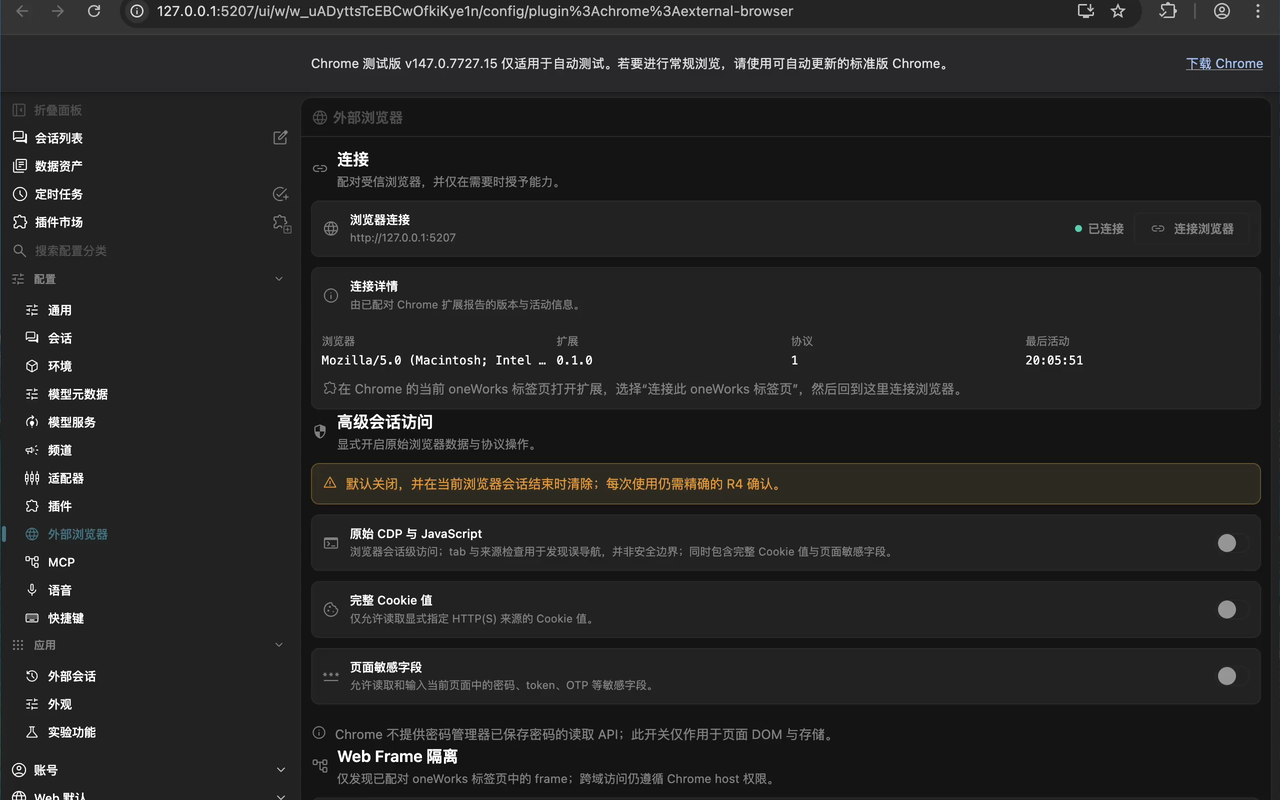
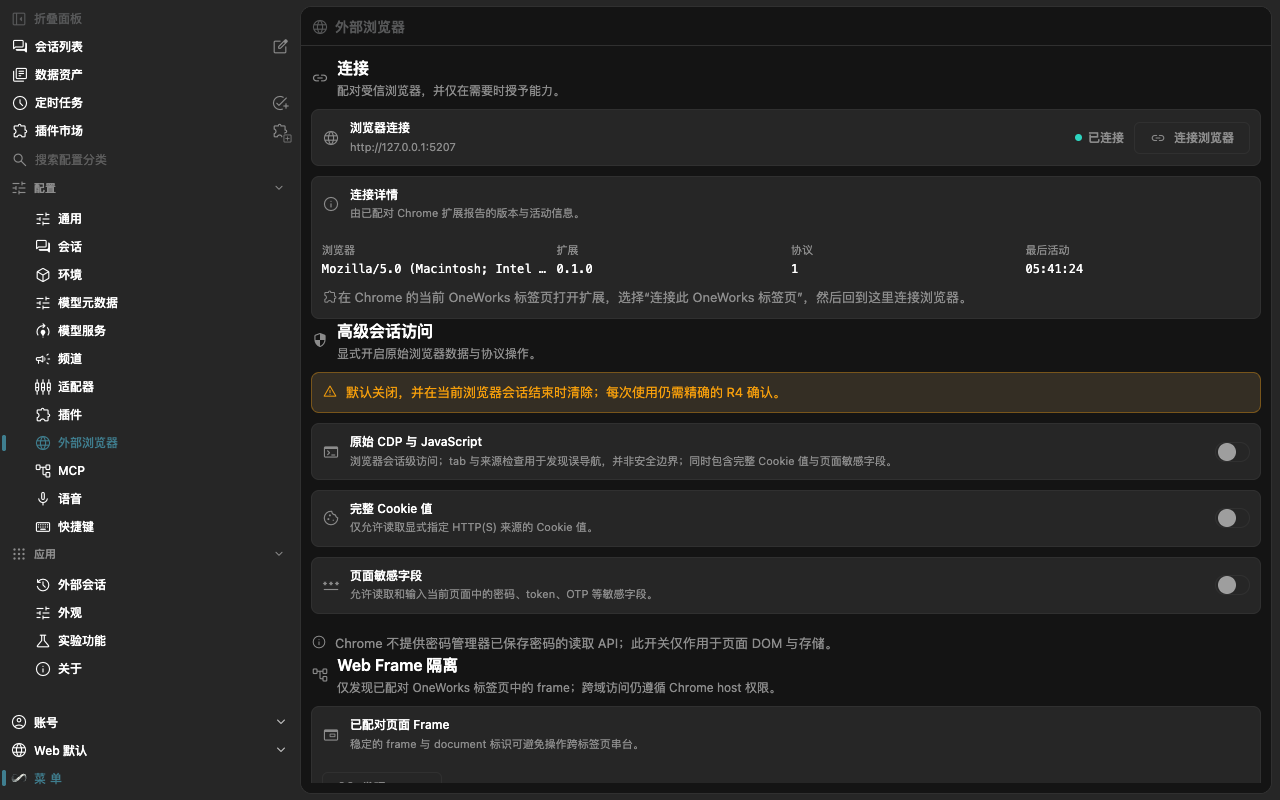
feat(browser): rename Chrome extension to OneWorks (#144)

diff --git a/packages/plugins/chrome-driver/__tests__/extension-release.spec.ts b/packages/plugins/chrome-driver/__tests__/extension-release.spec.ts
@@ -15,6 +15,8 @@ const release = require('../bin/extension-release.cjs') as {
   archiveFileName: (flavor: 'base' | 'privileged', version?: string) => string
   chromeVersionFor: (version: string) => string
   extensionIdForKey: (key: string) => string
+  extensionNames: { base: string; privileged: string }
+  publicExtensionName: string
   stableExtensionId: string
 }
 const packager = require('../bin/package-extension.cjs') as {
@@ -70,12 +72,17 @@ describe('external browser extension release packaging', () => {
     for (const fileName of ['manifest.json', 'manifest.privileged.json', 'manifest.e2e.json']) {
       const manifest = JSON.parse(readFileSync(join(pluginRoot, 'extension', fileName), 'utf8'))
       expect(release.extensionIdForKey(manifest.key)).toBe(CHROME_EXTENSION_ID)
+      expect(manifest.action.default_title).toBe(release.publicExtensionName)
     }
+    expect(readFileSync(join(pluginRoot, 'extension', 'popup.html'), 'utf8')).toMatch(
+      /<title>OneWorks<\/title>[\s\S]*<h1>OneWorks<\/h1>/u
+    )
   })
 
   it('maps package prerelease versions to monotonic Chrome versions', () => {
     expect(release.chromeVersionFor('0.1.0-alpha.5')).toBe('0.1.0.10005')
     expect(release.chromeVersionFor('0.1.0-beta.5')).toBe('0.1.0.20005')
+    expect(release.chromeVersionFor('0.1.0-beta.6')).toBe('0.1.0.20006')
     expect(release.chromeVersionFor('0.1.0-rc.5')).toBe('0.1.0.30005')
     expect(release.chromeVersionFor('0.1.0')).toBe('0.1.0.65535')
     expect(release.chromeVersionFor('0.1.1-alpha.0')).toBe('0.1.1.10000')
@@ -110,12 +117,12 @@ describe('external browser extension release packaging', () => {
     }
     expect(base.sha256).toBe(secondBase.sha256)
     expect(privileged.sha256).toBe(secondPrivileged.sha256)
-    expect(release.archiveFileName('privileged', '1.2.3')).toBe('oneworks-external-browser-v1.2.3.zip')
-    expect(release.archiveFileName('base', '1.2.3')).toBe('oneworks-external-browser-v1.2.3-minimal.zip')
-    expect(base).toMatchObject({ flavor: 'base', manifest_version: '0.1.0.20005' })
+    expect(release.archiveFileName('privileged', '1.2.3')).toBe('oneworks-v1.2.3.zip')
+    expect(release.archiveFileName('base', '1.2.3')).toBe('oneworks-v1.2.3-minimal.zip')
+    expect(base).toMatchObject({ flavor: 'base', manifest_version: '0.1.0.20006' })
     expect(release.stableExtensionId).toBe(CHROME_EXTENSION_ID)
     expect(base).toMatchObject({ extension_id: CHROME_EXTENSION_ID })
-    expect(privileged).toMatchObject({ flavor: 'privileged', manifest_version: '0.1.0.20005' })
+    expect(privileged).toMatchObject({ flavor: 'privileged', manifest_version: '0.1.0.20006' })
 
     const baseEntries = unzipSync(new Uint8Array(readFileSync(basePath)))
     const baseManifest = JSON.parse(Buffer.from(baseEntries['manifest.json']).toString('utf8'))
@@ -128,15 +135,15 @@ describe('external browser extension release packaging', () => {
       'icons/icon-128.png'
     ]))
     expect(baseManifest).toMatchObject({
-      name: 'oneWorks External Browser (Minimal)',
-      version: '0.1.0.20005',
-      version_name: '0.1.0-beta.5'
+      name: release.extensionNames.base,
+      version: '0.1.0.20006',
+      version_name: '0.1.0-beta.6'
     })
     expect(baseManifest.permissions).not.toContain('debugger')
 
     const privilegedEntries = unzipSync(new Uint8Array(readFileSync(privilegedPath)))
     const privilegedManifest = JSON.parse(Buffer.from(privilegedEntries['manifest.json']).toString('utf8'))
-    expect(privilegedManifest.name).toBe('oneWorks External Browser')
+    expect(privilegedManifest.name).toBe(release.extensionNames.privileged)
     expect(privilegedManifest.permissions).toEqual(expect.arrayContaining(['debugger', 'proxy']))
   })
 
@@ -151,7 +158,7 @@ describe('external browser extension release packaging', () => {
 
     const manifest = JSON.parse(readFileSync(join(materializedPath, 'manifest.json'), 'utf8'))
     expect(manifest).toMatchObject({
-      name: 'oneWorks External Browser',
+      name: release.extensionNames.privileged,
       permissions: expect.arrayContaining(['debugger', 'proxy'])
     })
     expect(validator.validateExtensionArchive({ archivePath, flavor: 'privileged' }))

diff --git a/packages/plugins/chrome-driver/server/src/bridge.ts b/packages/plugins/chrome-driver/server/src/bridge.ts
@@ -519,7 +519,7 @@ const trustedOneWorksOrigin = (value: string) => {
   if (url.protocol === 'http:' && ['127.0.0.1', 'localhost', '[::1]'].includes(url.hostname)) return origin
   throw bridgeError({
     code: 'UNTRUSTED_ONEWORKS_ORIGIN',
-    message: 'Chrome pairing is limited to loopback oneWorks or ONEWORKS_CHROME_TRUSTED_ORIGINS.',
+    message: 'Chrome pairing is limited to loopback OneWorks or ONEWORKS_CHROME_TRUSTED_ORIGINS.',
     recoverable: true
   })
 }
@@ -605,9 +605,9 @@ export class ChromeExtensionBridge {
     if (extensionId !== CHROME_EXTENSION_ID || pairingNonce.length < 16) {
       throw bridgeError({
         code: 'EXTENSION_IDENTITY_MISMATCH',
-        message: 'The installed extension identity or page challenge did not match oneWorks External Browser.',
+        message: 'The installed extension identity or page challenge did not match OneWorks.',
         recoverable: true,
-        user_action: 'Install the oneWorks-provided extension build and reconnect from its popup.'
+        user_action: 'Install the OneWorks-provided extension build and reconnect from its popup.'
       })
     }
     const ticket = randomBytes(24).toString('base64url')
@@ -728,7 +728,7 @@ export class ChromeExtensionBridge {
         code: 'DISCONNECTED',
         message: 'External Browser is not connected.',
         recoverable: true,
-        user_action: 'Open External Browser in oneWorks Settings or open the extension and reconnect.'
+        user_action: 'Open External Browser in OneWorks Settings or open the extension and reconnect.'
       })
     }
     const connection = this.#activeConnection
@@ -768,7 +768,7 @@ export class ChromeExtensionBridge {
         confirmation_id: confirmation.confirmation_id,
         message: 'This Chrome operation requires an explicit user confirmation.',
         recoverable: true,
-        user_action: 'Approve the pending action in External Browser under oneWorks Settings, then retry.'
+        user_action: 'Approve the pending action in External Browser under OneWorks Settings, then retry.'
       })
     }
     this.#grants.delete(digest)
@@ -1024,7 +1024,7 @@ export class ChromeExtensionBridge {
           protocolVersion || 'unknown'
         }.`,
         recoverable: true,
-        user_action: 'Update the oneWorks Chrome extension and reconnect.'
+        user_action: 'Update the OneWorks Chrome extension and reconnect.'
       })
     }
     const extensionId = text(body.extension_id)
@@ -1060,9 +1060,9 @@ export class ChromeExtensionBridge {
       ) {
         throw bridgeError({
           code: 'PAIRING_REQUIRED',
-          message: 'A fresh oneWorks pairing offer is required.',
+          message: 'A fresh OneWorks pairing offer is required.',
           recoverable: true,
-          user_action: 'Click Connect browser in External Browser under oneWorks Settings.'
+          user_action: 'Click Connect browser in External Browser under OneWorks Settings.'
         })
       }
       this.#pairingTickets.delete(ticket)

diff --git a/packages/plugins/chrome-driver/client/src/view.tsx b/packages/plugins/chrome-driver/client/src/view.tsx
@@ -92,7 +92,7 @@ export function ChromeDriverView({ ctx, react, view }) {
     run('frames', async () => {
       const tabId = status?.connection?.oneworks_tab_id
       if (!Number.isInteger(tabId)) {
-        throw new TypeError(t('Reconnect from the oneWorks Web tab first.', '请先从 oneWorks Web 标签页重新连接。'))
+        throw new TypeError(t('Reconnect from the OneWorks Web tab first.', '请先从 OneWorks Web 标签页重新连接。'))
       }
       const result = await ctx.commands.execute('list-web-frames', { tab_id: tabId })
       setFrames(result?.result ?? result ?? [])
@@ -117,8 +117,8 @@ export function ChromeDriverView({ ctx, react, view }) {
   const recover = () => failure?.code === 'VERSION_MISMATCH' ? connect() : failure?.retry?.() ?? refresh()
   const failureGuidance = failure?.code === 'VERSION_MISMATCH'
     ? t(
-      'Update the oneWorks browser extension, then reconnect this tab.',
-      '请更新 oneWorks 浏览器扩展，然后重新连接当前标签页。'
+      'Update the OneWorks browser extension, then reconnect this tab.',
+      '请更新 OneWorks 浏览器扩展，然后重新连接当前标签页。'
     )
     : failure?.code === 'MISSING_PERMISSION'
     ? t(
@@ -223,8 +223,8 @@ export function ChromeDriverView({ ctx, react, view }) {
           <Icon name='extension' />
           <span>
             {t(
-              'In Chrome, open the extension on this oneWorks tab, choose “Connect this oneWorks tab”, then return here and connect the browser.',
-              '在 Chrome 的当前 oneWorks 标签页打开扩展，选择“连接此 oneWorks 标签页”，然后回到这里连接浏览器。'
+              'In Chrome, open the extension on this OneWorks tab, choose “Connect this OneWorks tab”, then return here and connect the browser.',
+              '在 Chrome 的当前 OneWorks 标签页打开扩展，选择“连接此 OneWorks 标签页”，然后回到这里连接浏览器。'
             )}
           </span>
         </div>
@@ -316,8 +316,8 @@ export function ChromeDriverView({ ctx, react, view }) {
       icon='account_tree'
       title={t('Web frame isolation', 'Web Frame 隔离')}
       description={t(
-        'Discover only frames in the paired oneWorks tab. Cross-origin access still follows Chrome host permissions.',
-        '仅发现已配对 oneWorks 标签页中的 frame；跨域访问仍遵循 Chrome host 权限。'
+        'Discover only frames in the paired OneWorks tab. Cross-origin access still follows Chrome host permissions.',
+        '仅发现已配对 OneWorks 标签页中的 frame；跨域访问仍遵循 Chrome host 权限。'
       )}
     >
       <SettingsRow

diff --git a/packages/plugins/chrome-driver/extension/background.js b/packages/plugins/chrome-driver/extension/background.js
@@ -92,7 +92,7 @@ const handlers = {
 
 async function post(path, body, token, signal) {
   if (connection?.bridge_url == null && body.bridge_url == null) {
-    throw error('PAIRING_REQUIRED', 'oneWorks pairing is required.')
+    throw error('PAIRING_REQUIRED', 'OneWorks pairing is required.')
   }
   const bridgeUrl = body.bridge_url ?? connection.bridge_url
   const response = await fetch(new URL(path, bridgeUrl), {
@@ -120,7 +120,7 @@ async function connect(input = {}) {
     const bridgeUrl = input.bridge_url ?? saved.bridge_url
     const trustedOrigin = input.trusted_origin ?? saved.trusted_origin
     if (bridgeUrl == null || trustedOrigin == null) {
-      throw error('PAIRING_REQUIRED', 'Open External Browser in oneWorks Settings and create a pairing offer.')
+      throw error('PAIRING_REQUIRED', 'Open External Browser in OneWorks Settings and create a pairing offer.')
     }
     const capabilities = await discoverCapabilities()
     const previousConnection = connection
@@ -337,11 +337,11 @@ chrome.runtime.onMessage.addListener((message, sender, sendResponse) => {
   const respond = async () => {
     if (message?.type === 'oneworks:pairing-offer') {
       if (sender.tab?.url == null) {
-        throw error('ORIGIN_MISMATCH', 'Pairing offers must come from a visible oneWorks tab.')
+        throw error('ORIGIN_MISMATCH', 'Pairing offers must come from a visible OneWorks tab.')
       }
       const senderOrigin = new URL(sender.tab.url).origin
       if (senderOrigin !== message.offer?.trusted_origin) {
-        throw error('ORIGIN_MISMATCH', 'The pairing offer did not match the oneWorks tab origin.')
+        throw error('ORIGIN_MISMATCH', 'The pairing offer did not match the OneWorks tab origin.')
       }
       if (message.offer?.ticket != null && message.offer.ticket === lastPairingTicket && connection != null) {
         return publicStatus()
@@ -365,7 +365,7 @@ chrome.runtime.onMessage.addListener((message, sender, sendResponse) => {
     if (message?.type === 'oneworks:inject-bridge') {
       const [tab] = await chrome.tabs.query({ active: true, currentWindow: true })
       if (tab?.id == null || tab.url == null || !/^https?:/.test(tab.url)) {
-        throw error('RESTRICTED_PAGE', 'Open the oneWorks Web page in the active tab first.')
+        throw error('RESTRICTED_PAGE', 'Open the OneWorks Web page in the active tab first.')
       }
       const origin = new URL(tab.url).origin
       await chrome.permissions.request({ permissions: ['scripting'], origins: [`${origin}/*`] })
@@ -397,7 +397,7 @@ chrome.runtime.onMessage.addListener((message, sender, sendResponse) => {
       await chrome.storage.local.remove(storageKey)
       return publicStatus()
     }
-    throw error('UNKNOWN_MESSAGE', 'Unknown oneWorks Chrome extension message.')
+    throw error('UNKNOWN_MESSAGE', 'Unknown OneWorks Chrome extension message.')
   }
   void respond().then(
     result => sendResponse({ ok: true, result }),

diff --git a/packages/plugins/chrome-driver/extension/popup.html b/packages/plugins/chrome-driver/extension/popup.html
@@ -3,29 +3,29 @@
   <head>
     <meta charset="utf-8">
     <meta name="viewport" content="width=device-width,initial-scale=1">
-    <title>oneWorks External Browser</title>
+    <title>OneWorks</title>
     <link rel="stylesheet" href="popup.css">
   </head>
   <body>
     <main>
       <header>
-        <span class="mark">oW</span><div>
-          <h1>External Browser</h1>
+        <span class="mark">OW</span><div>
+          <h1>OneWorks</h1>
           <p id="state">Checking connection…</p>
         </div>
       </header>
       <section id="notice" hidden></section>
-      <button id="connect" class="primary">Connect this oneWorks tab</button>
+      <button id="connect" class="primary">Connect this OneWorks tab</button>
       <h2>Optional capabilities</h2>
       <p class="hint">
         Grant only what this session needs. Sensitive actions still require
-        confirmation in oneWorks.
+        confirmation in OneWorks.
       </p>
       <div id="permissions"></div>
       <h2>Advanced session access</h2>
       <p class="warning">
         Disabled by default and cleared when this browser session ends. Every
-        use still requires an exact R4 confirmation in oneWorks.
+        use still requires an exact R4 confirmation in OneWorks.
       </p>
       <div id="advanced"></div>
       <footer>

diff --git a/scripts/chrome-driver-record-demo.ts b/scripts/chrome-driver-record-demo.ts
@@ -87,11 +87,11 @@ async function main() {
       defaultDurationMs: durationMs,
       defaultFps: fps,
       defaultViewport: { height: 900, width: 1280 },
-      description: 'Outer-process recording of oneWorks controlling an isolated external browser window.',
+      description: 'Outer-process recording of OneWorks controlling an isolated external browser window.',
       id: 'external-browser-driver-e2e',
       requiresUrl: false,
       showActionCursor: false,
-      title: 'oneWorks External Browser Driver E2E',
+      title: 'OneWorks Chrome Driver E2E',
       run: async ctx => {
         await ctx.recordDuring(ctx.durationMs, async () => {
           await writeFile(startPath, `${new Date().toISOString()}\n`, { mode: 0o600 })
@@ -118,7 +118,7 @@ async function main() {
       headless: false,
       keepFrames: false,
       language: 'zh-Hans',
-      name: 'oneworks-external-browser-control',
+      name: 'oneworks-browser-control',
       outDir,
       preserveTargetEnvironment: true,
       scenarioId: scenario.id,

diff --git a/packages/plugins/chrome-driver/__tests__/contract.spec.ts b/packages/plugins/chrome-driver/__tests__/contract.spec.ts
@@ -5,8 +5,10 @@ import { describe, expect, it, vi } from 'vitest'
 const require = createRequire(import.meta.url)
 const manifest = require('../plugin.json') as {
   displayName: string
+  version: string
   plugin: { contributions: Record<string, unknown> & { settingsPages?: Array<Record<string, unknown>> } }
 }
+const packageManifest = require('../package.json') as { version: string }
 const contract = require('../bin/chrome-driver-contract.cjs') as {
   tools: Array<{ name: string; inputSchema: Record<string, unknown> }>
 }
@@ -29,7 +31,8 @@ const createWorkflowController = require('../../browser-driver/bin/browser-drive
 describe('external browser MCP contract', () => {
   it('injects its control view into Settings instead of the main navigation', () => {
     const contributions = manifest.plugin.contributions
-    expect(manifest.displayName).toBe('External Browser')
+    expect(manifest.displayName).toBe('OneWorks')
+    expect(manifest.version).toBe(packageManifest.version)
     expect(contributions.navItems).toBeUndefined()
     expect(contributions.routes).toBeUndefined()
     expect(contributions.settingsPages).toEqual([

diff --git a/packages/plugins/chrome-driver/__tests__/extension-indicators.spec.ts b/packages/plugins/chrome-driver/__tests__/extension-indicators.spec.ts
@@ -358,11 +358,11 @@ describe('chrome extension visible action indicators', () => {
       cursor_session_id: 'cursor-session',
       cursor_url: 'chrome-extension://example/agent-cursor.svg',
       ref: 'r1',
-      text: 'oneWorks'
+      text: 'OneWorks'
     })
     await vi.advanceTimersByTimeAsync(2_000)
     await expect(operation).resolves.toMatchObject({ typed: 'r1' })
-    expect(input.value).toBe('oneWorks')
+    expect(input.value).toBe('OneWorks')
     expect(cancel).toHaveBeenCalledOnce()
   })
 })

diff --git a/packages/plugins/chrome-driver/extension/operations/browser-data.js b/packages/plugins/chrome-driver/extension/operations/browser-data.js
@@ -242,7 +242,7 @@ export async function downloadsOperation(action, args) {
   else if (action === 'show') await chrome.downloads.show(args.download_id)
   else if (action === 'open') {
     throw error('USER_GESTURE_REQUIRED', 'Opening a downloaded file requires a direct click in the extension popup.', {
-      user_action: 'Open the oneWorks Chrome extension popup and choose the pending download action.'
+      user_action: 'Open the OneWorks Chrome extension popup and choose the pending download action.'
     })
   } else throw error('UNSUPPORTED_ACTION', `Unsupported downloads action: ${action}`)
   return { completed: action, download_id: args.download_id }
@@ -281,7 +281,7 @@ export async function managementOperation(action, args) {
     throw error(
       'USER_GESTURE_REQUIRED',
       'Changing another extension requires a direct user gesture in the extension popup.',
-      { user_action: 'Open the oneWorks Chrome extension popup and complete the pending native action.' }
+      { user_action: 'Open the OneWorks Chrome extension popup and complete the pending native action.' }
     )
   }
   if (action === 'uninstall') {

diff --git a/packages/plugins/chrome-driver/extension/popup.js b/packages/plugins/chrome-driver/extension/popup.js
@@ -72,7 +72,7 @@ async function render() {
   document.querySelector('#state').textContent = status.connected
     ? `Connected to ${status.trusted_origin}`
     : status.paired
-    ? 'Paired · reconnect oneWorks to continue'
+    ? 'Paired · reconnect OneWorks to continue'
     : 'Not connected'
   document.querySelector('#version').textContent = `v${status.extension_version} · protocol ${status.protocol_version}`
   const granted = status.capabilities.permissions
@@ -132,7 +132,7 @@ document.querySelector('#connect').addEventListener(
   () =>
     send({ type: 'oneworks:inject-bridge' }).then(result => {
       document.querySelector('#state').textContent =
-        `Bridge ready in tab ${result.tab_id}. Click Connect browser in oneWorks.`
+        `Bridge ready in tab ${result.tab_id}. Click Connect browser in OneWorks.`
     }, showError)
 )
 document.querySelector('#forget').addEventListener(

diff --git a/packages/plugins/chrome-driver/server/src/index.ts b/packages/plugins/chrome-driver/server/src/index.ts
@@ -36,7 +36,7 @@ export async function activatePlugin(ctx: ChromePluginContext) {
     const origin = value != null && typeof value.origin === 'string' ? value.origin : ''
     const extensionId = value != null && typeof value.extension_id === 'string' ? value.extension_id : ''
     const pairingNonce = value != null && typeof value.pairing_nonce === 'string' ? value.pairing_nonce : ''
-    if (origin === '') throw new Error('The current oneWorks origin is required for Chrome pairing.')
+    if (origin === '') throw new Error('The current OneWorks origin is required for Chrome pairing.')
     return bridge.createPairingOffer(origin, extensionId, pairingNonce)
   })
   ctx.registerCommand('approve-confirmation', (payload: unknown) => {
@@ -56,7 +56,7 @@ export async function activatePlugin(ctx: ChromePluginContext) {
   ctx.registerCommand('list-web-frames', (payload: unknown) => {
     const value = payload as Record<string, unknown> | undefined
     const tabId = value != null && Number.isInteger(value.tab_id) ? Number(value.tab_id) : undefined
-    if (tabId == null) throw new Error('A paired oneWorks Chrome tab id is required.')
+    if (tabId == null) throw new Error('A paired OneWorks Chrome tab id is required.')
     return bridge.executeFromUi('frames.list', { tab_id: tabId }, `tab:${tabId}`)
   })
   ctx.registerCommand('get-advanced-access', () => (

diff --git a/packages/plugins/chrome-driver/extension/operations/security.js b/packages/plugins/chrome-driver/extension/operations/security.js
@@ -48,7 +48,7 @@ export async function requireAdvancedAccess(key) {
     recoverable: true,
     advanced_access_key: key,
     user_action:
-      'Enable the matching Advanced session access switch in oneWorks Settings or the extension popup, then retry.'
+      'Enable the matching Advanced session access switch in OneWorks Settings or the extension popup, then retry.'
   })
 }
 